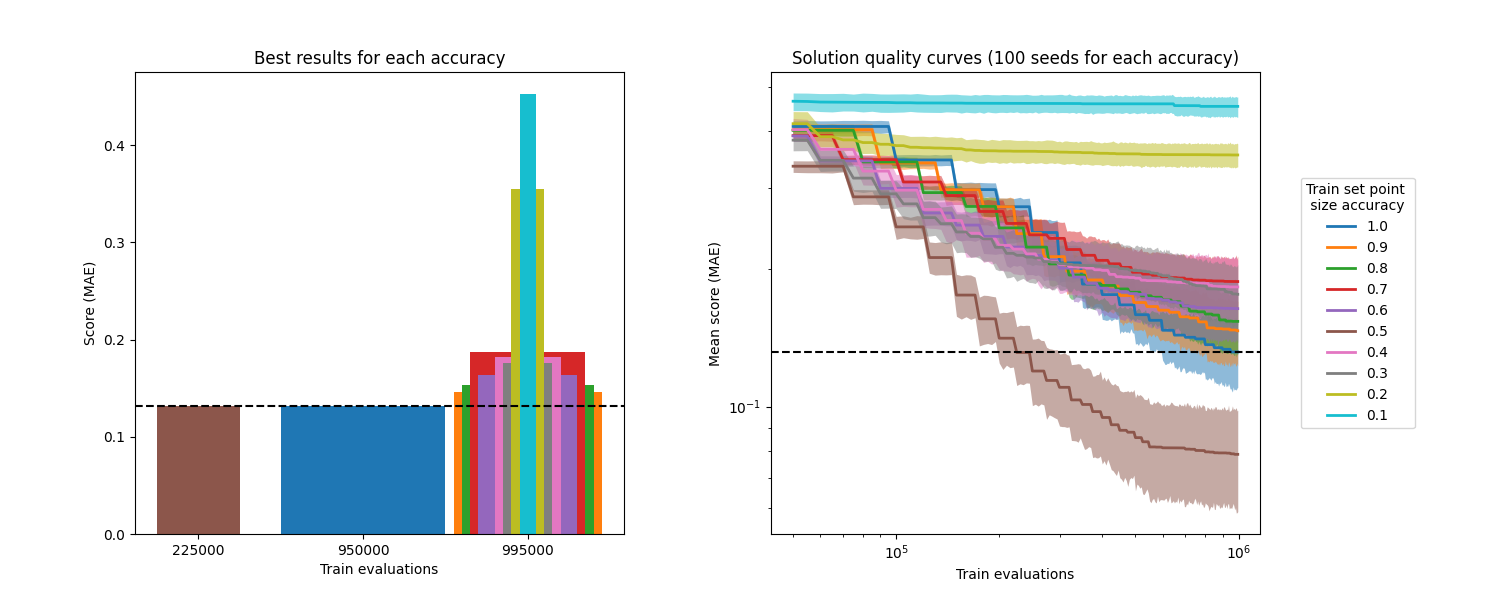
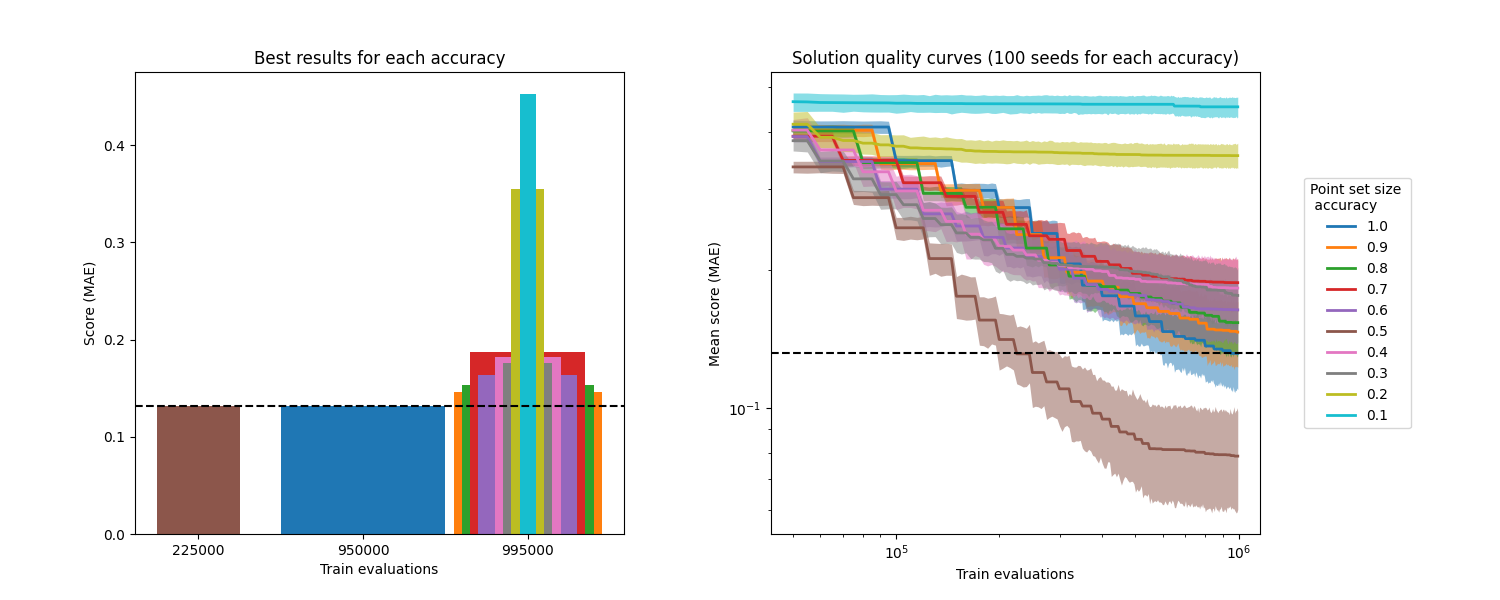
Update Symbolic regressor code

diff --git a/experimentScripts_SymbolicRegressor/OptimalAccuracyAnalysis_figures.py b/experimentScripts_SymbolicRegressor/OptimalAccuracyAnalysis_figures.py
@@ -195,7 +195,7 @@ def draw_and_save_figures_per_heuristic(heuristic):
     ax.set_xlabel("Train evaluations (without extra)")
     ax.set_ylabel("Mean score (MAE)")
     ax.set_title('Comparison between optimal and constant accuracy')
-    ax.legend(title="Train set point size accuracy",bbox_to_anchor=(1.4, 0, 0, 1), loc='center')
+    ax.legend(title="Point set size accuracy",bbox_to_anchor=(1.4, 0, 0, 1), loc='center')
     ax.set_xscale('log')
 
     #----------------------------------------------------------------------------------------------
@@ -256,7 +256,7 @@ def draw_comparative_figure(heuristic_param_list):
     ax.set_xlabel("Train evaluations")
     ax.set_ylabel("Mean score (MAE)")
     ax.set_title('Comparison of heuristics and default case')
-    ax.legend(title="Train set point size accuracy",bbox_to_anchor=(1.4, 0, 0, 1), loc='center')
+    ax.legend(title="Point set size accuracy",bbox_to_anchor=(1.4, 0, 0, 1), loc='center')
     ax.set_xscale('log')
 
     #----------------------------------------------------------------------------------------------

diff --git a/experimentScripts_SymbolicRegressor/OptimalAccuracyAnalysis_OtherHeuristics_figures.py b/experimentScripts_SymbolicRegressor/OptimalAccuracyAnalysis_OtherHeuristics_figures.py
@@ -281,7 +281,7 @@ def draw_and_save_figures_per_heuristic(heuristic):
 
     ax.set_xlabel("Train evaluations (without extra)")
     ax.set_ylabel("Mean score (MAE)")
-    ax.legend(title="Train set point size accuracy",bbox_to_anchor=(1.4, 0, 0, 1), loc='center')
+    ax.legend(title="Point set size accuracy",bbox_to_anchor=(1.4, 0, 0, 1), loc='center')
     ax.set_xscale('log')
     if heuristic in [7,8,9,10,11,12,13,14]:
         ax.set_title('Comparison between optimal and constant accuracy')

diff --git a/experimentScripts_SymbolicRegressor/ConstantAccuracyAnalysis_figures.py b/experimentScripts_SymbolicRegressor/ConstantAccuracyAnalysis_figures.py
@@ -170,7 +170,7 @@ plt.axhline(y=score_limit,color='black', linestyle='--')
 ax.set_xlabel("Train evaluations")
 ax.set_ylabel("Mean score (MAE)")
 ax.set_title('Solution quality curves (100 seeds for each accuracy)')
-ax.legend(title="Train set point \n size accuracy",bbox_to_anchor=(1.2, 0, 0, 1), loc='center')
+ax.legend(title="Point set size \n accuracy",bbox_to_anchor=(1.2, 0, 0, 1), loc='center')
 plt.xscale('log')
 plt.yscale('log')
 
